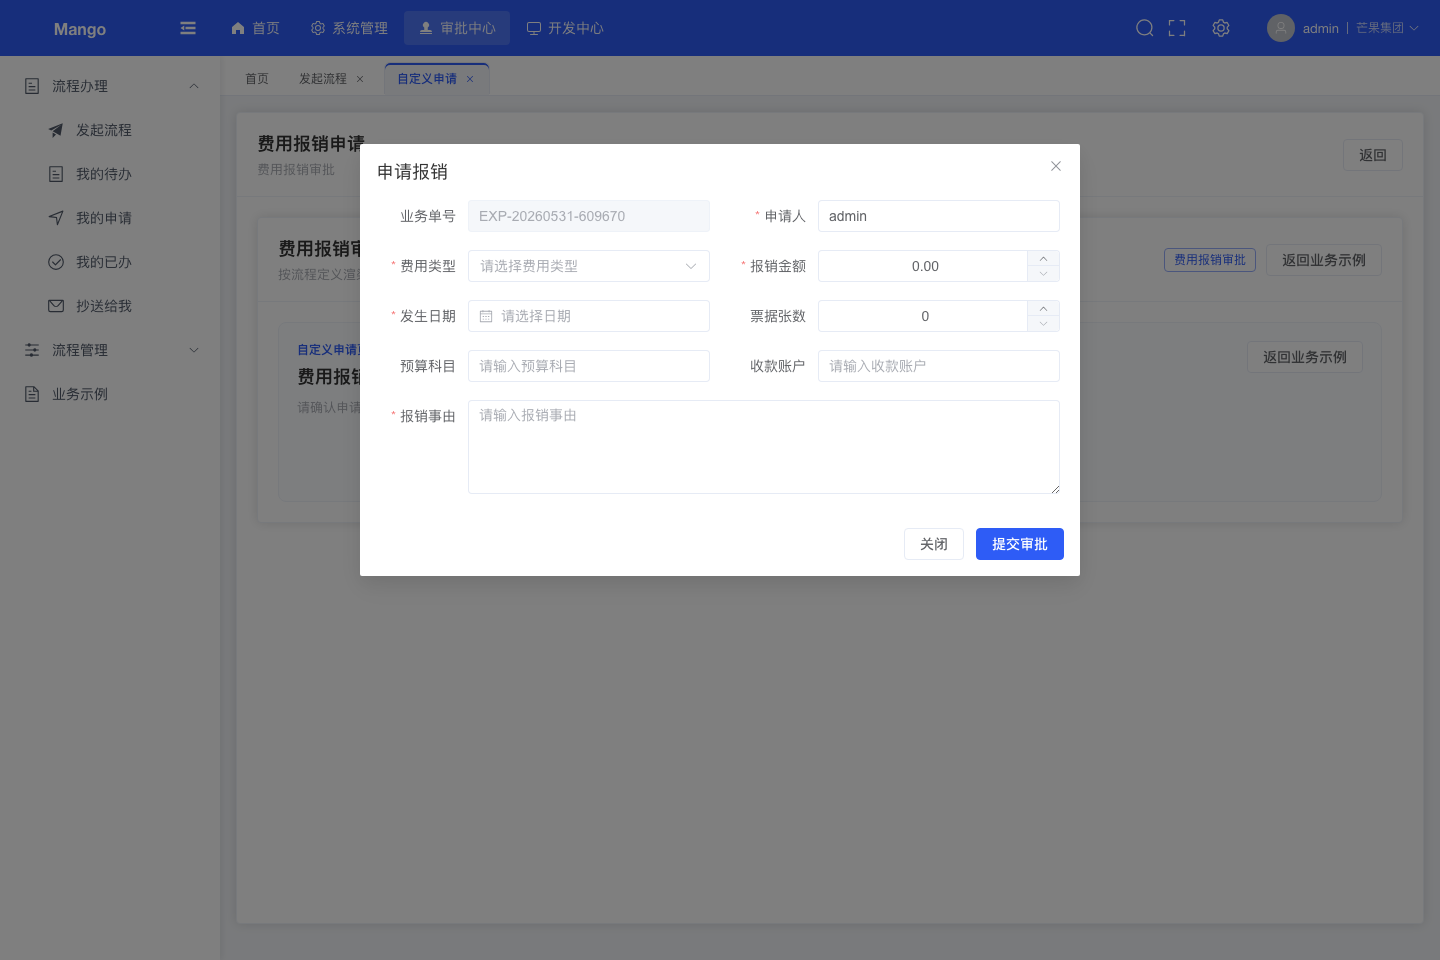
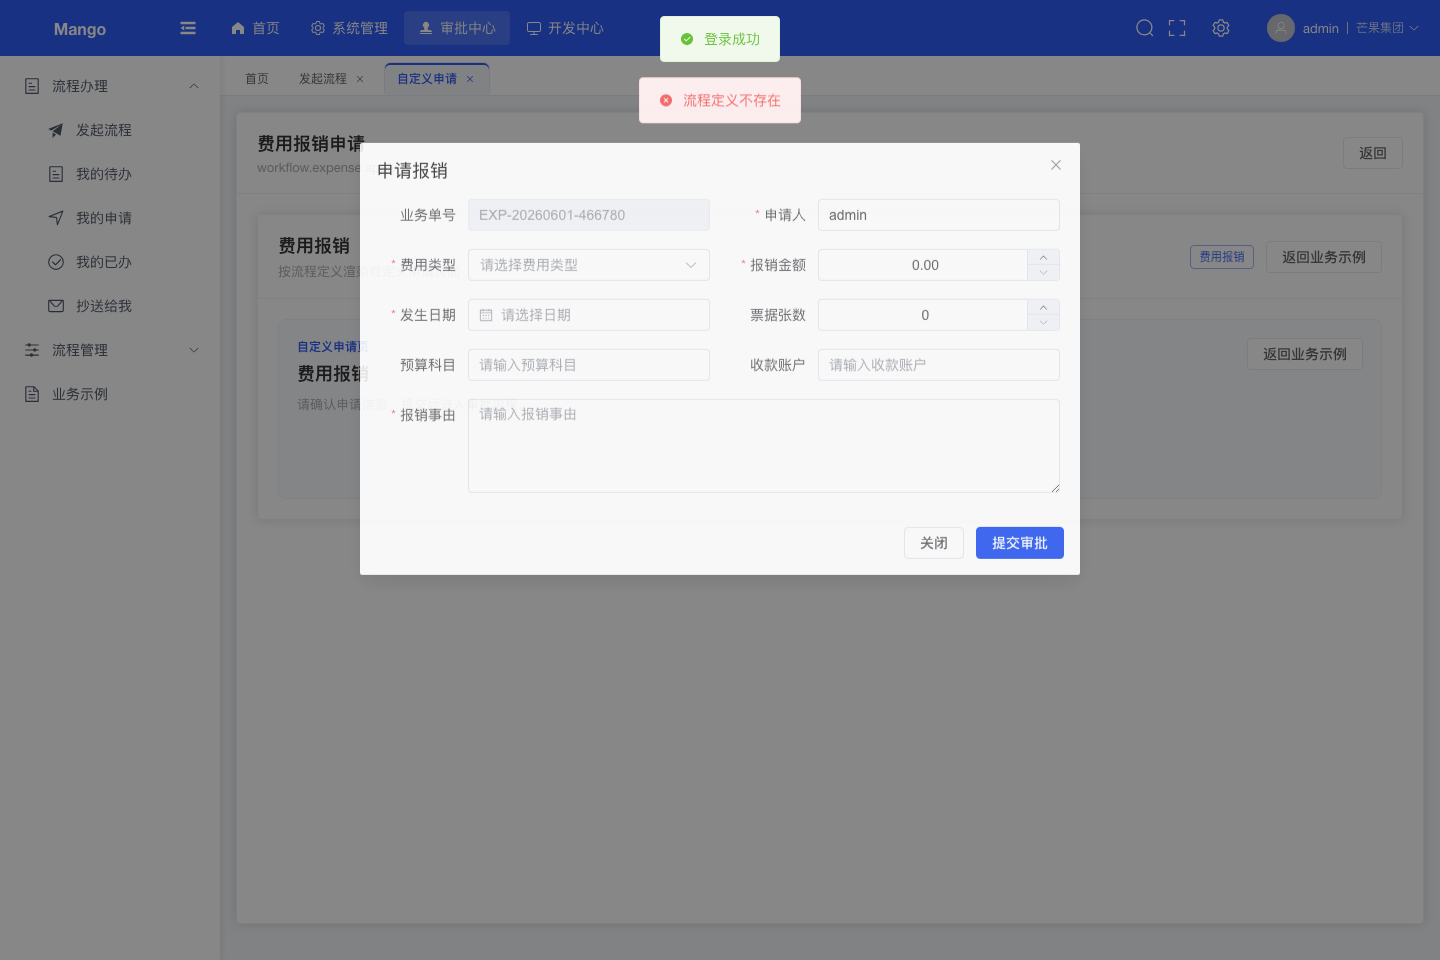
fix(admin): isolate dev center demo pages

diff --git a/mango-ui/packages/admin-shell/src/config.ts b/mango-ui/packages/admin-shell/src/config.ts
@@ -1,8 +1,20 @@
 import type { MangoAuthConfig } from '@mango/auth';
 import type { MangoFrontendApp, MangoRuntimeConfig, MangoRuntimeConfigLoadOptions } from '@mango/app-runtime';
-import type { MangoAdminFeatures } from '@mango/admin-pages/features';
+import type { MangoAdminFeatureCode, MangoAdminFeatures } from '@mango/admin-pages/features';
 
 export type MangoAdminFeatureRegistrar = () => void | Promise<void>;
+export type MangoAdminDevCenterRegistrar = () => void | Promise<void>;
+
+export interface MangoAdminDevCenterPage {
+  menuId: string;
+  menuName: string;
+  menuCode: string;
+  path: string;
+  component: string;
+  icon: string;
+  sort: number;
+  feature?: MangoAdminFeatureCode;
+}
 
 export interface MangoAdminShellOptions {
   mountTarget?: string | Element;
@@ -24,6 +36,8 @@ export type MangoAdminShellDeployEnv = 'dev' | 'test' | 'prod' | 'prd' | 'produc
 export interface MangoAdminShellDevCenterOptions {
   visible?: boolean;
   deployEnv?: MangoAdminShellDeployEnv;
+  registrars?: MangoAdminDevCenterRegistrar[];
+  pages?: () => MangoAdminDevCenterPage[];
 }
 
 export const defaultMangoAdminShellOptions: Required<Pick<MangoAdminShellOptions, 'mountTarget' | 'apiBaseUrl' | 'title'>> = {
@@ -59,6 +73,8 @@ export function configureMangoAdminShell(options: MangoAdminShellOptions = {}) {
     devCenter: {
       ...mangoAdminShellOptions.devCenter,
       ...options.devCenter,
+      registrars: options.devCenter?.registrars || mangoAdminShellOptions.devCenter?.registrars,
+      pages: options.devCenter?.pages || mangoAdminShellOptions.devCenter?.pages,
     },
     modules: {
       ...mangoAdminShellOptions.modules,

diff --git a/mango-ui/packages/admin/src/index.d.ts b/mango-ui/packages/admin/src/index.d.ts
@@ -5,10 +5,22 @@ import type {
   MangoRuntimeConfig,
   MangoRuntimeConfigLoadOptions,
 } from '@mango/app-runtime';
-import type { MangoAdminFeatures } from '@mango/admin-pages/features';
+import type { MangoAdminFeatureCode, MangoAdminFeatures } from '@mango/admin-pages/features';
 import type { MangoAuthConfig } from '@mango/auth';
 
 export type MangoAdminFeatureRegistrar = () => void | Promise<void>;
+export type MangoAdminDevCenterRegistrar = () => void | Promise<void>;
+
+export interface MangoAdminDevCenterPage {
+  menuId: string;
+  menuName: string;
+  menuCode: string;
+  path: string;
+  component: string;
+  icon: string;
+  sort: number;
+  feature?: MangoAdminFeatureCode;
+}
 
 export interface MangoAdminAppInstance {
   app: VueApp;
@@ -22,6 +34,8 @@ export type MangoAdminShellDeployEnv = 'dev' | 'test' | 'prod' | 'prd' | 'produc
 export interface MangoAdminShellDevCenterOptions {
   visible?: boolean;
   deployEnv?: MangoAdminShellDeployEnv;
+  registrars?: MangoAdminDevCenterRegistrar[];
+  pages?: () => MangoAdminDevCenterPage[];
 }
 
 export interface MangoAdminShellOptions {

diff --git a/mango-ui/packages/admin-shell/src/runtime/menuHost.ts b/mango-ui/packages/admin-shell/src/runtime/menuHost.ts
@@ -1,7 +1,6 @@
 import { computed, ref } from 'vue';
 import { get } from '@mango/common/utils/request';
 import { getRegisteredPageRoutes } from '@mango/admin-pages/core';
-import { getMangoDevComponentPages } from '@mango/admin-pages/dev-pages';
 import { DEV_COMPONENT_DEMO_REDIRECT } from '@mango/admin-pages/dev-component-pages';
 import {
   isMangoAdminFeatureEnabled,
@@ -161,8 +160,9 @@ export function ensureDevCenterPagesRegistered() {
   }
   if (!devCenterPagesPromise) {
     devCenterPagesPromise = Promise.resolve().then(async () => {
-      await import('../views/demo/registerBaseDevPages').then(m => m.registerMangoAdminShellBaseDevPages());
-      await import('../views/demo/registerDevPages').then(m => m.registerMangoAdminShellDevPages());
+      for (const registrar of getMangoAdminShellOptions().devCenter?.registrars || []) {
+        await registrar();
+      }
     });
   }
   return devCenterPagesPromise;
@@ -391,7 +391,7 @@ function createRegisteredHiddenRouteMenus(): ShellRouteMenu[] {
 
 function createComponentDemoMenus(): ShellMenu[] {
   const enabledFeatures = resolveMangoAdminFeatures(getMangoAdminShellOptions().features);
-  return getMangoDevComponentPages()
+  return getMangoAdminShellOptions().devCenter?.pages?.()
     .filter(page => !page.feature || enabledFeatures.has(page.feature))
     .map(page => ({
       ...page,
@@ -405,7 +405,7 @@ function createComponentDemoMenus(): ShellMenu[] {
       keepAlive: 1,
       pageType: 'LOCAL_ROUTE',
       children: [],
-    }));
+    })) || [];
 }
 
 const FEATURE_MODULE_MAP = {

diff --git a/mango-ui/apps/mango-admin-shell/src/main.ts b/mango-ui/apps/mango-admin-shell/src/main.ts
@@ -1,6 +1,9 @@
 import { createMangoAdminApp } from '@mango/admin/full';
 import '@mango/admin/style-full.css';
 import { mangoFullAdminFeatureRegistrars } from '@mango/admin/full';
+import { getMangoDevComponentPages } from '@mango/admin-pages/dev-pages';
+import { registerMangoAdminShellBaseDevPages } from '@mango/admin-shell/dev-base-pages';
+import { registerMangoAdminShellDevPages } from '@mango/admin-shell/dev-pages';
 
 function splitEnvList(value?: string) {
   return (value || '')
@@ -17,6 +20,11 @@ createMangoAdminApp({
   featureRegistrars: mangoFullAdminFeatureRegistrars,
   devCenter: {
     deployEnv: import.meta.env.VITE_MANGO_DEPLOY_ENV || import.meta.env.MODE,
+    registrars: [
+      registerMangoAdminShellBaseDevPages,
+      registerMangoAdminShellDevPages,
+    ],
+    pages: getMangoDevComponentPages,
   },
   runtimeConfigLoadOptions: import.meta.env.DEV
     ? {